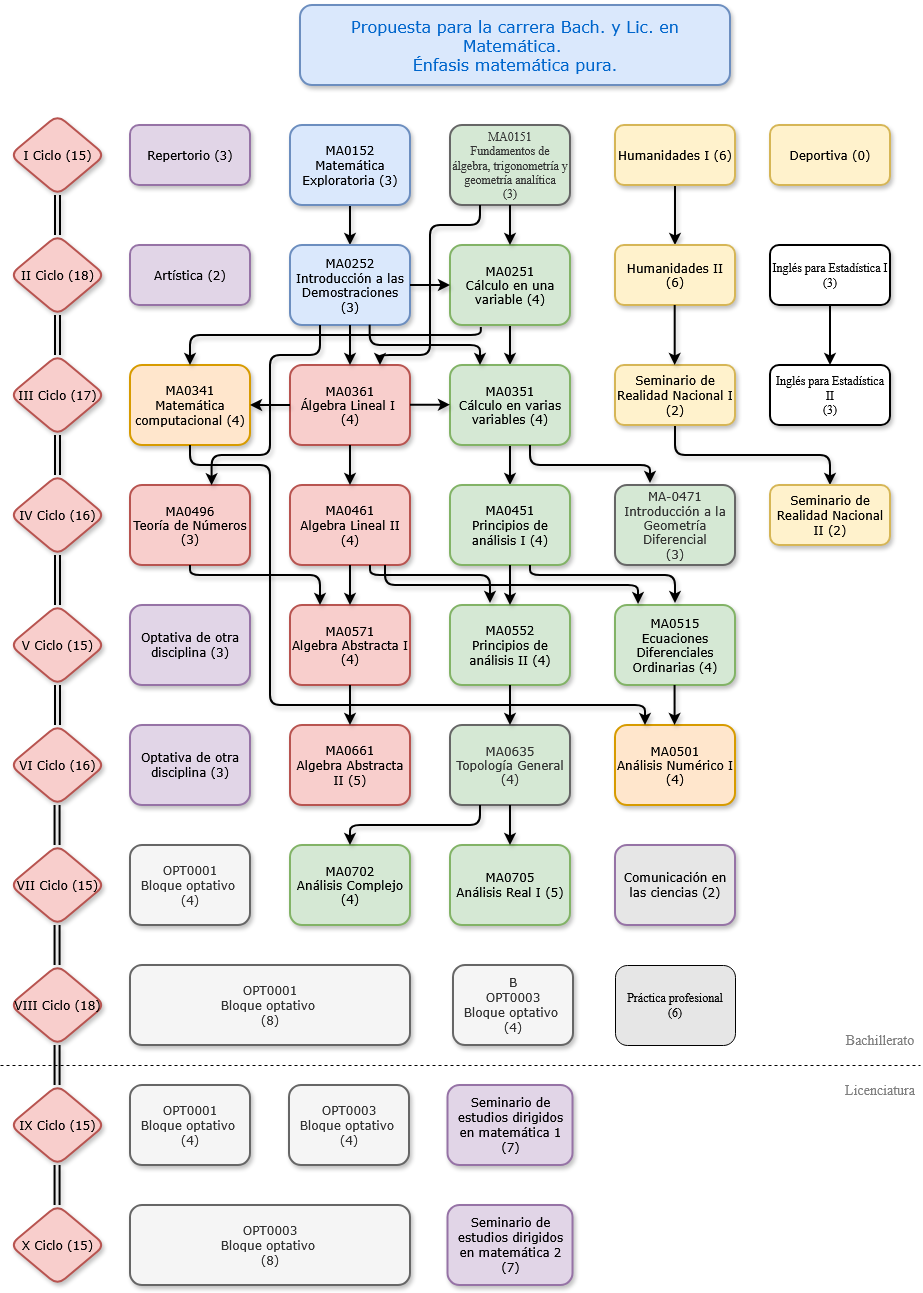
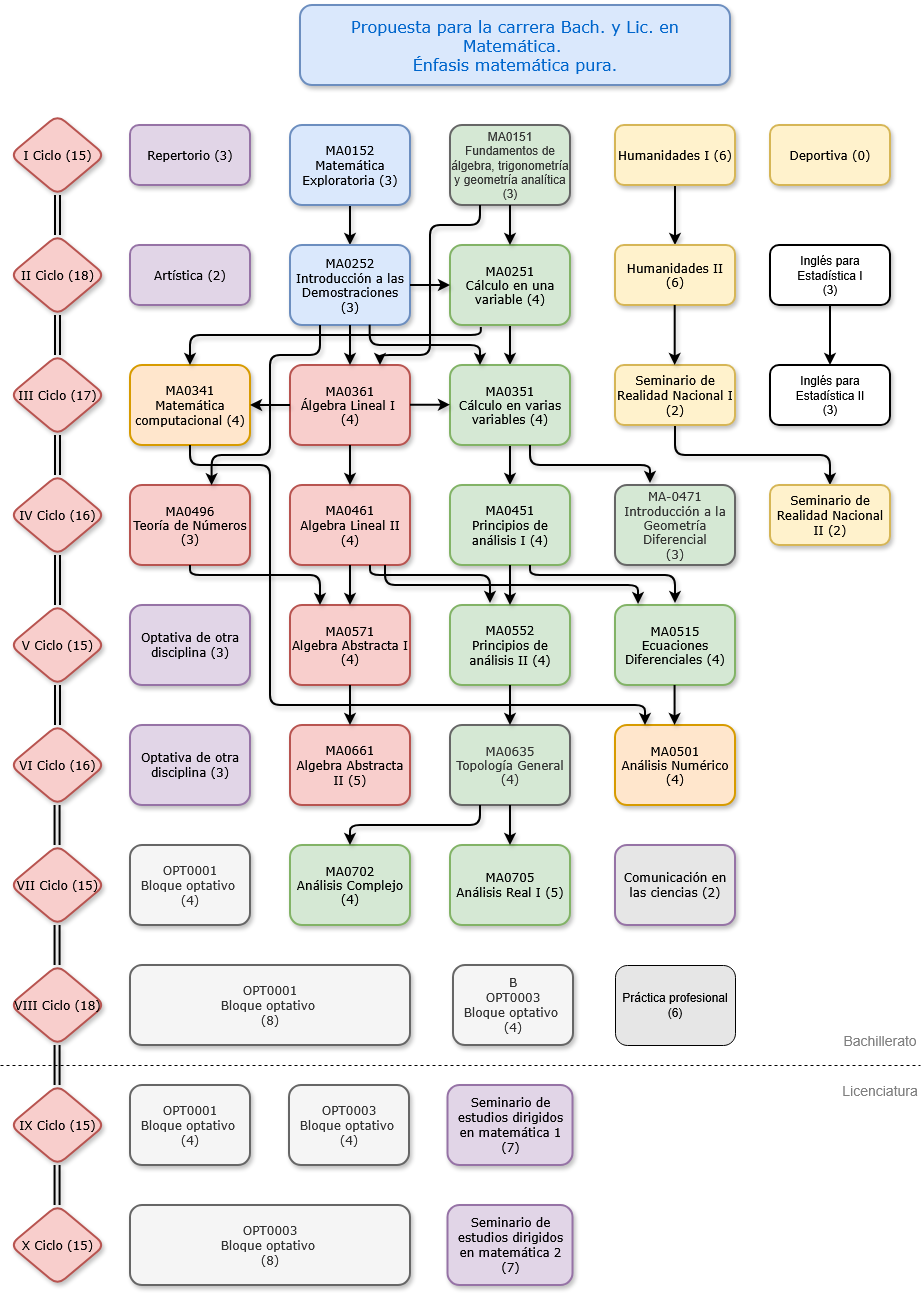
Correcciones html

diff --git a/malla-curricular.html b/malla-curricular.html
@@ -542,39 +542,40 @@
           },
           HOTSPOT_POR_TITULO: {
             "MA-0151 Fundamentos de álgebra, trigonometría y geometría analítica": {
-              dx: 36, dy: 0,
+              dx: 34.5, dy: 0,
             },
-            "MA-0152 Matemática Exploratoria": { dx: 18, dy: 0 },
+            "MA-0152 Matemática Exploratoria": { dx: 17, dy: 0 },
             "MA-0251 Introducción al Cálculo en una variable": {
-              dx: 36, dy: 9.5,
+              dx: 34.5, dy: 9.5,
             },
-            "MA-0252 Introducción a las Demostraciones": { dx: 18, dy: 9.5 },
-            "MA-0361 Algebra Lineal I": { dx: 18, dy: 18.5 },
+            "MA-0252 Introducción a las Demostraciones": { dx: 17, dy: 9.5 },
+            "MA-0361 Algebra Lineal I": { dx: 17, dy: 18.5 },
             "MA-0341 Matemática Computacional": { dx: 0, dy: 18.5 },
             "MA-0351 Introducción al Cálculo en varias variables": {
-              dx: 36, dy: 18.5,
+              dx: 34.5, dy: 18.5,
             },
-            "MA-0461 Algebra Lineal II": { dx: 18, dy: 28 },
+            "MA-0461 Algebra Lineal II": { dx: 17, dy: 28 },
             "MA-0451 Principios de análisis en una variable": {
-              dx: 36, dy: 28,
+              dx: 34.5, dy: 28,
             },
             "MA-0471 Introducción a la Geometría Diferencial": {
-              dx: 54, dy: 28,
+              dx: 52.5, dy: 28,
             },
             "MA-0496 Teoría de Números": { dx: 0, dy: 28 },
-            "MA-0571 Algebra Abstracta I": { dx: 18, dy: 37 },
+            "MA-0571 Algebra Abstracta I": { dx: 17, dy: 37 },
             "MA-0552 Principios de Análisis II": {
-              dx: 36, dy: 37,
+              dx: 34.5, dy: 37,
             },
-            "MA-0515 Ecuaciones Diferenciales": { dx: 54, dy: 37 },
-            "MA-0661 Algebra Abstracta II": { dx: 18, dy: 46.5 },
-            "MA-0635 Topología general": { dx: 36, dy: 46.5 },
-            "MA-0501 Análisis numérico": { dx: 54, dy: 46.5 },
-            "MA-0705 Análisis Real I": { dx: 36, dy: 55.5 },
-            "MA-0732 Análisis complejo": { dx: 18, dy: 55.5 },
-            "MA-0880 Comunicación en las ciencias": { dx: 54, dy: 55.5 },
-            "MA-0881 Práctica profesional en matemática pura": { dx: 54, dy: 65 },
-            "MA-0883 Práctica profesional en matemática aplicada": { dx: 54, dy: 65 },
+            "MA-0515 Ecuaciones Diferenciales": { dx: 52.5, dy: 37 },
+            "MA-0661 Algebra Abstracta II": { dx: 17, dy: 46.5 },
+            "MA-0635 Topología general": { dx: 34.5, dy: 46.5 },
+            "MA-0501 Análisis numérico": { dx: 52.5, dy: 46.5 },
+            "MA-0705 Análisis Real I": { dx: 34.5, dy: 55.5 },
+            "MA-0732 Análisis complejo": { dx: 17, dy: 55.5 },
+            "MA-0880 Comunicación en las ciencias": { dx: 52.5, dy: 55.5 },
+            "MA-0881 Práctica profesional en matemática pura": { dx: 52.5, dy: 65 },
+            "MA-0982 Seminario de estudios dirigidos en matemática pura I": { dx: 34.5, dy: 74 },
+            "MA-1081 Seminario de estudios dirigidos en matemática pura II": { dx: 34.5, dy: 83.5 },
           },
         },
         aplicada: {
@@ -755,42 +756,43 @@
             "CA-0412 Análisis de datos II": "curso-ca-0412-analisis-datos-ii",
           },
           HOTSPOT_ORIGIN: {
-            left: 14, top: 9, w: 13.5, h: 6.5,
+            left: 14.5, top: 9, w: 13.5, h: 6.5,
           },
           HOTSPOT_POR_TITULO: {
             "MA-0151 Fundamentos de álgebra, trigonometría y geometría analítica": {
-              dx: 36, dy: 0,
+              dx: 34.5, dy: 0,
             },
-            "MA-0152 Matemática Exploratoria": { dx: 18, dy: 0 },
+            "MA-0152 Matemática Exploratoria": { dx: 17, dy: 0 },
             "MA-0251 Introducción al Cálculo en una variable": {
-              dx: 36, dy: 9.5,
+              dx: 34.5, dy: 9.5,
             },
-            "MA-0252 Introducción a las Demostraciones": { dx: 18, dy: 9.5 },
-            "MA-0361 Algebra Lineal I": { dx: 18, dy: 19 },
-            "MA-0341 Matemática Computacional": { dx: 0, dy: 19 },
+            "MA-0252 Introducción a las Demostraciones": { dx: 17, dy: 9.5 },
+            "MA-0361 Algebra Lineal I": { dx: 17, dy: 18.5 },
+            "MA-0341 Matemática Computacional": { dx: 0, dy: 18.5 },
             "MA-0351 Introducción al Cálculo en varias variables": {
-              dx: 36, dy: 19,
+              dx: 34.5, dy: 18.5,
             },
-            "MA-0461 Algebra Lineal II": { dx: 18, dy: 28 },
+            "MA-0461 Algebra Lineal II": { dx: 17, dy: 28 },
             "MA-0451 Principios de análisis en una variable": {
-              dx: 36, dy: 28,
+              dx: 34.5, dy: 28,
             },
-            "CA-0721 Probabilidad": { dx: 54, dy: 28 },
+            "CA-0721 Probabilidad": { dx: 52, dy: 28 },
             "CA-0203 Herramientas de ciencia de datos I": { dx: 0, dy: 28 },
             "MA-0552 Principios de Análisis II": {
-              dx: 36, dy: 37.5,
+              dx: 34.5, dy: 37.5,
             },
-            "MA-0615 Ecuaciones Diferenciales": { dx: 18, dy: 37.5 },
+            "MA-0615 Ecuaciones Diferenciales": { dx: 17, dy: 37.5 },
             "CA-0303 Estadística I": { dx: 0, dy: 37.5 },
-            "MA-0501 Análisis numérico": { dx: 0, dy: 47 },
-            "MA-0635 Topología general": { dx: 36, dy: 47 },
-            "MA-0647 Modelación Matemática": { dx: 18, dy: 47 },
-            "CA-0411 Análisis de Datos I": { dx: 0, dy: 56.5 },
-            "MA-0732 Análisis complejo": { dx: 18, dy: 56.5 },
-            "MA-0625 Análisis Real I": { dx: 36, dy: 56.5 },
-            "MA-0880 Comunicación en las ciencias": { dx: 54, dy: 56.5 },
-            "MA-0881 Práctica profesional en matemática pura": { dx: 54, dy: 66 },
-            "MA-0883 Práctica profesional en matemática aplicada": { dx: 54, dy: 66 },
+            "MA-0501 Análisis numérico": { dx: 0, dy: 46.5 },
+            "MA-0635 Topología general": { dx: 34.5, dy: 46.5 },
+            "MA-0647 Modelación Matemática": { dx: 17, dy: 46.5 },
+            "CA-0411 Análisis de Datos I": { dx: 0, dy: 56 },
+            "MA-0732 Análisis complejo": { dx: 17, dy: 56 },
+            "MA-0625 Análisis Real I": { dx: 34.5, dy: 56 },
+            "MA-0880 Comunicación en las ciencias": { dx: 52, dy: 56 },
+            "MA-0883 Práctica profesional en matemática aplicada": { dx: 52, dy: 65.5 },
+            "MA-0984 Seminario de estudios dirigidos en matemática aplicada I": { dx: 34.5, dy: 75 },
+            "MA-1082 Seminario de estudios dirigidos en matemática aplicada II": { dx: 34.5, dy: 84 },
           },
         },
       };
